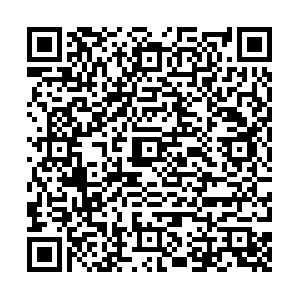
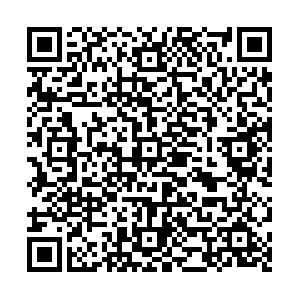
Atualiza QRCode e imagem.

diff --git a/README.md b/README.md
@@ -8,7 +8,7 @@ Classes para geração de QRCode PIX "Copia e Cola"
 Copie o código e cole no app do seu banco.
 
 ```
-00020126690014BR.GOV.BCB.PIX01326c32bb217b21474e9ce3efe24a823ff90211PIX em Java52040000530398654041.005802BR5925Manoel Campos da Silva Fh6006Palmas62070503***6304A390
+00020126590014BR.GOV.BCB.PIX0122manoelcampos@gmail.com0211PIX em Java52040000530398654041.005802BR5925Manoel Campos da Silva Fh6006Palmas62070503***6304FEC1
 ```
 
 ### 1.2. Ou escaneie o QRCode abaixo no app do seu banco:
